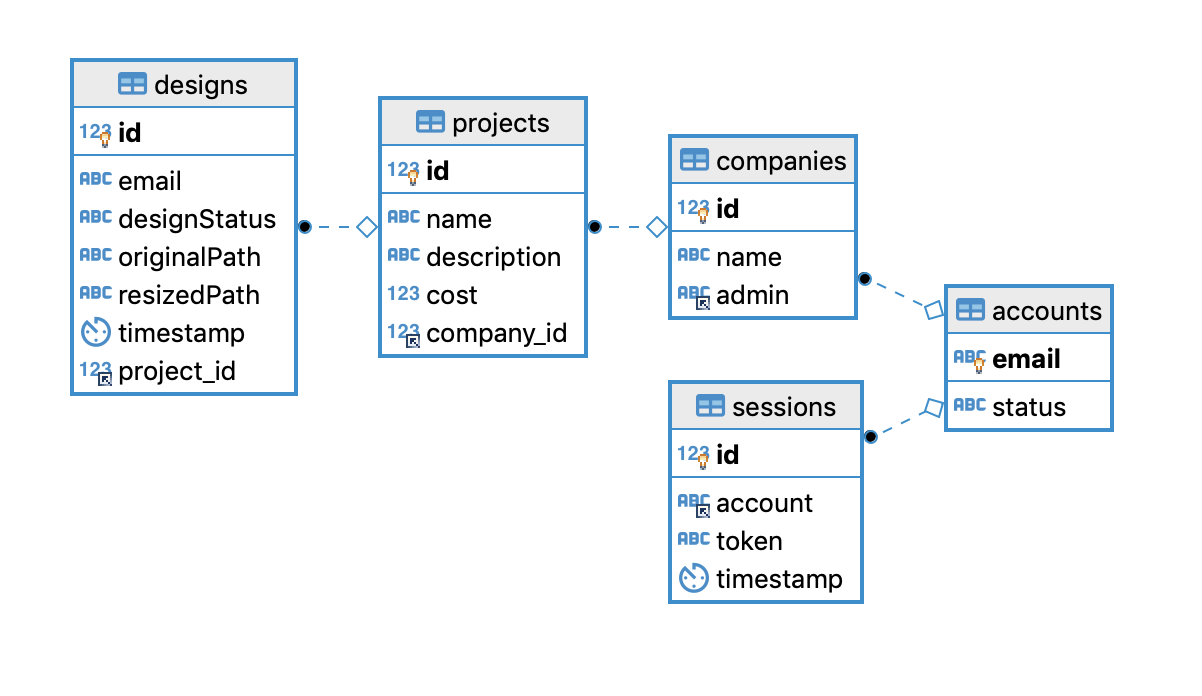
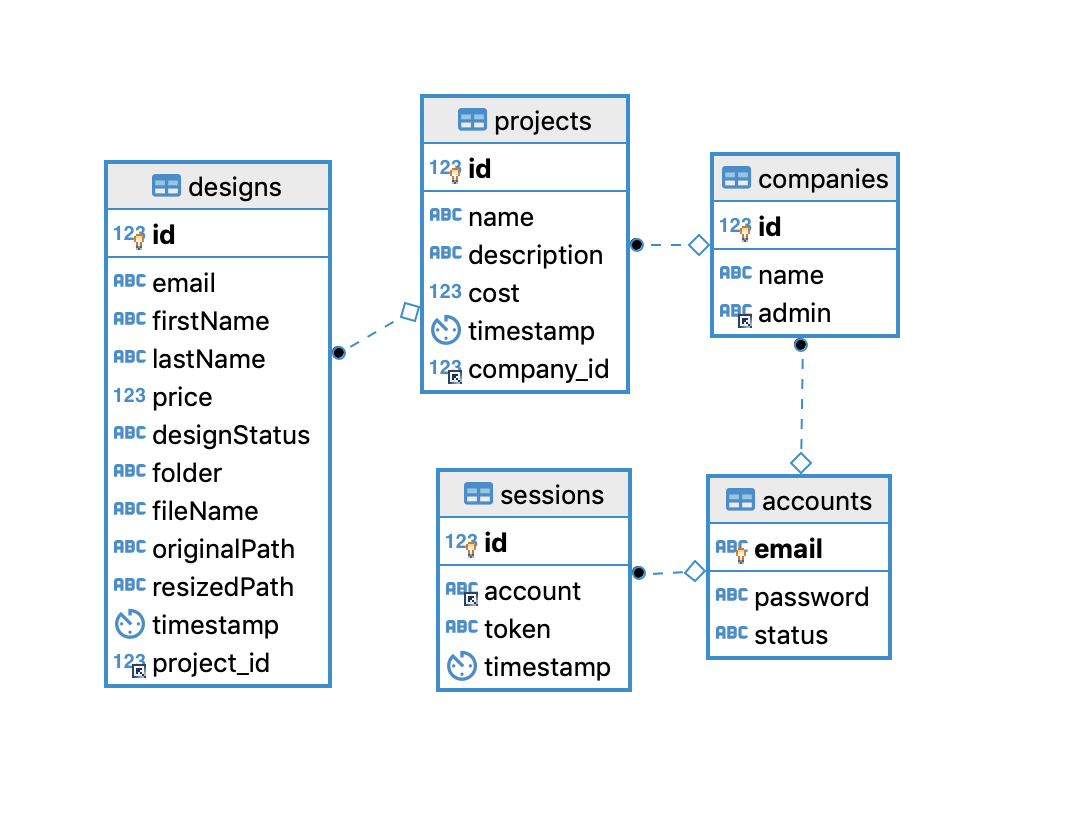
WIP: update readme infra

Changed region(s): [[0.0311, 0.0603, 0.9341, 0.875]]

diff --git a/infraestructura/README.md b/infraestructura/README.md
@@ -2,35 +2,71 @@
 
 ### Contenido
 - Generalidades de Arquitectura e Infraestructura.
-- Modelo de datos y Diagrama E-R.
-- Tecnologias de desarrollo base.
+- Modelo de datos y diagrama E-R.
+- Tecnologias de desarrollo.
 - Frameworks, librerias y herramientas.
 
-#### Modelo ER.
 
-El modelo Entidad Relacion de la aplicacion es el siguiente:
+#### Generalidades de Arquitectura e Infraestructura.
 
-![diagrama ER](images/diagrama-ER.png)
+- Diagrama de despliegue:
+    
+    La aplicación web corre en un servidor dentro de una red privada de la Universidad de los Andes por lo que hay que acceder a través de una VPN, el usuario usando un navegador web ingresa a la aplicación que está alojada en una maquina con ubuntu server de 4 nucleos, 8 GB de memoria RAM  y 40 GB  de disco duro, probablemente HDD. Se usó una aplicación java autocontenida y en el frontend se desarrollo una SPA. 
 
+    La base de datos en MySQL es accedida únicamente desde el servicio de backend de la aplicacion. se usa un servidor web ligero llamado nginx que adicional es proxy reverso y balanceador de carga, (en la aplicación actualmente se usa solo como webserver y proxy reverso). 
+
+    <!-- ![diagrama despliegue](images/diagrama-despliegue.png) -->
+    <img src="images/diagrama-despliegue.png" alt="diagrama despliegue" width="800"/>
+
+
+#### Modelo de datos y Diagrama E-R.
+
+- Diagrama E-R:
+    
+    El diagrama Entidad Relacion de la aplicacion es el siguiente.
+    
+    <!-- ![diagrama ER](images/diagrama-ER.png) -->
+    <img src="images/diagrama-er.png" alt="diagrama ER" width="800"/>
+
+    Como entidades principales, se ilustran la compañías, proyectos y diseños que se pueden gestionar en el sitio web. Sin embargo, es necesario tener en cuenta el uso de entidades de soporte como el manejo de sesiones, de cuentas y de status en los diseños. 
 
 #### Tecnologias base.
 
-| Backend                      | Frontend                       | Database                          |
-|------------------------------|--------------------------------|-----------------------------------|
+| Backend   | Frontend  | Database   |
+|-----------|-----------|------------|
 |![java](images/java-logo.png) |![web](images/css-html-js.jpeg) |![database](images/mysql-logo.png) |
 
 #### Frameworks, librerias y herramientas.
 
-| PlayJava                     | ReactJs                        | Docker                           | JWT                        | Trello                           |
-|------------------------------|--------------------------------|----------------------------------|----------------------------|----------------------------------|
-|![play](images/play-logo.png) |![react](images/react-logo.png) |![Docker](images/docker-logo.jpg) |![jwt](images/jwt-logo.png) |![trello](images/trello-logo.png) |
+| Docker    | PlayJava  | ReactJs   | Trello    | Slack |
+|-----------|-----------|-----------|-----------|-------|
+|![Docker](images/docker-logo.jpg) |![play](images/play-logo.png) |![react](images/react-logo.png) |![trello](images/trello-logo.png) |![slack](images/slack-logo.png) |
+
+#### Servicios utilizados de AWS
+
+| VPC   | Route 53  | EBS   | RDS   |
+|-------|-----------|-------|-------|
+|![trello](images/aws/vpc-logo.jpeg) |![trello](images/aws/Route53-logo.png) |![EBS](images/aws/ebs-logo.png) |![RDS](images/aws/rds-logo.png) |
 
 
+- Amazon Virtual Private Cloud (VPC)
+- Amazon Route 53
+- Amazon Elastic Block Store (EBS)
+- Amazon Relational Database Service (RDS)
 
-### en construccion
+posiblemente
+- Amazon Elastic Compute Cloud / 
 
-#### Suponiendo los siguientes archivos en el server
- (estructura de carpetas en el servidor.)
+| Elastic IP    |
+|---------------|
+|![elascticsearch](images/aws/elasticsearch-logo.png) |
+
+
+## En construccion:
+
+### Despliegue en AWS
+
+1. Teniendo `$HOME = /home/ubuntu` crear las carpetas app, infra y www.
 
 #### Despliegue de base de datos en docker (simplificado)
 docker run --name mysql-db -e MYSQL_ROOT_PASSWORD=root -e MYSQL_DATABASE=dev  -p 3306:3306 -d mysql
